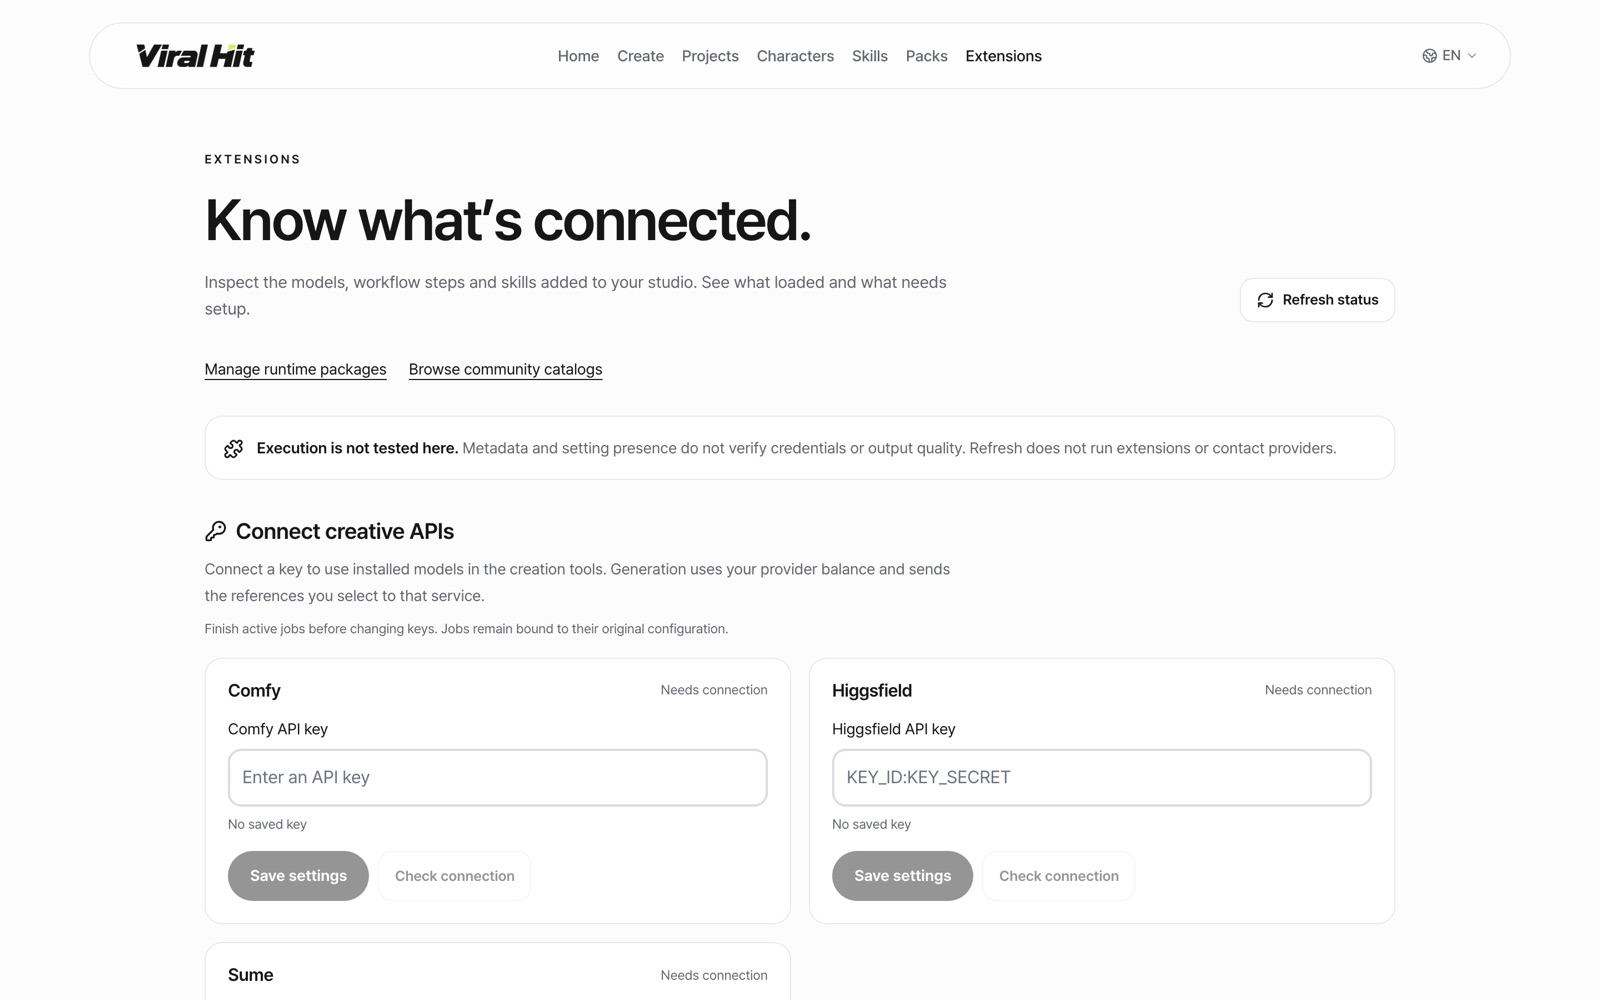
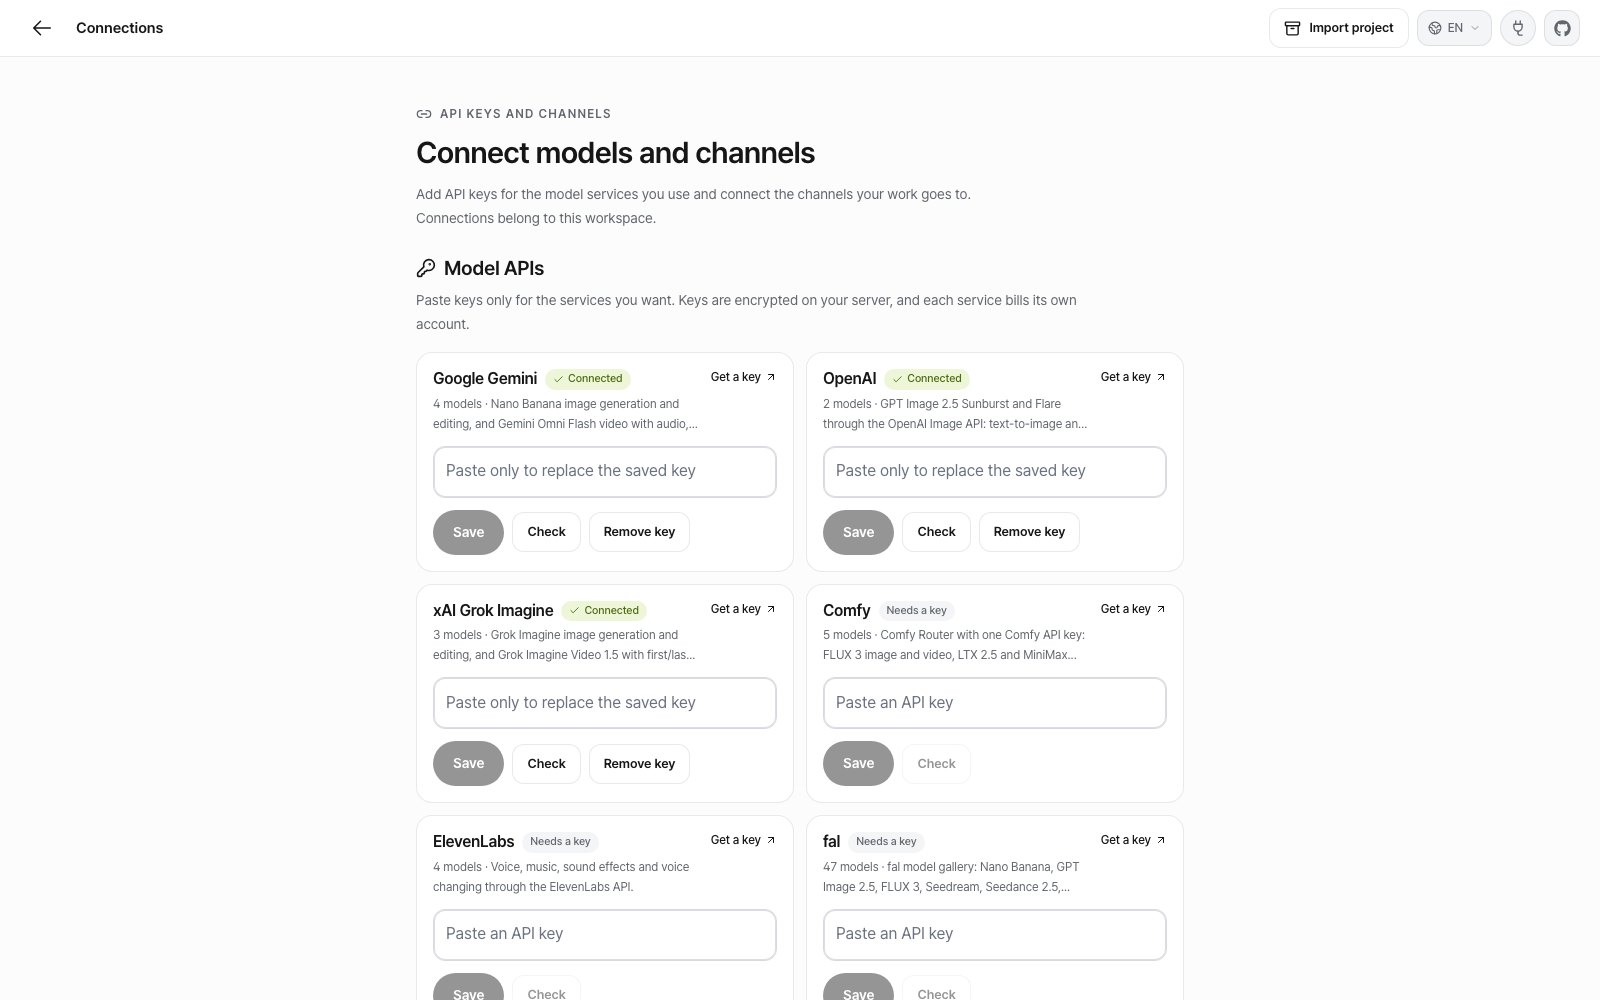
docs(readme): show the unified Connections page

diff --git a/README.md b/README.md
@@ -78,11 +78,11 @@ The #OpenSourceHiggsfield challenge produced close to a hundred projects. Most r
   </tr>
   <tr>
     <td><img src="docs/readme/editor.jpg" alt="Multitrack editor with player, timeline and inspector" /></td>
-    <td><img src="docs/readme/connections.jpg" alt="API connections for Comfy, Higgsfield and Sume" /></td>
+    <td><img src="docs/readme/connections.jpg" alt="Connections: model API keys for nine services with a Get a key link each, plus publishing channels" /></td>
   </tr>
   <tr>
     <td><b>Edit.</b> A real multitrack timeline: visuals, overlays, audio and captions, reversible takes, recovered drafts and MP4 export in the browser or on the server.</td>
-    <td><b>Connections.</b> Paste a key once. Keys stay encrypted on your server, are never sent to the browser, and each job remembers the key it started with.</td>
+    <td><b>Connections.</b> Model API keys and publishing channels on one page. <b>Get a key</b> opens each service's official key page; keys stay encrypted on your server and each job remembers the key it started with.</td>
   </tr>
 </table>
 
